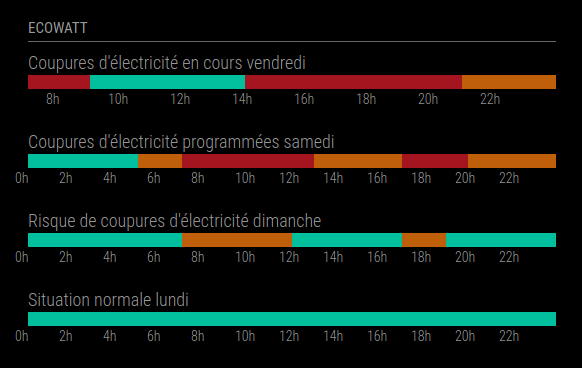
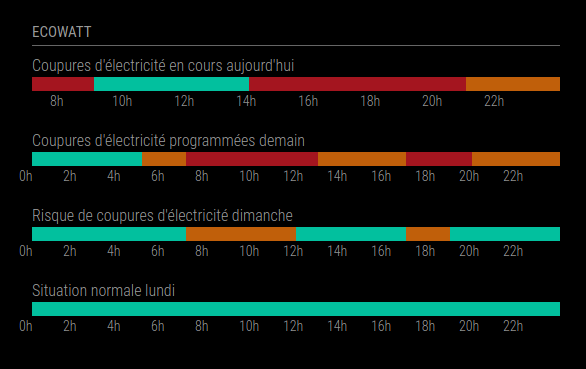
Text style

diff --git a/MMM-Ecowatt.css b/MMM-Ecowatt.css
@@ -1,5 +1,5 @@
 .MMM-Ecowatt {
-    font-size: 18px;
+    font-size: 16px;
     text-align: left !important;
 }
 .MMM-Ecowatt .signalTable {
